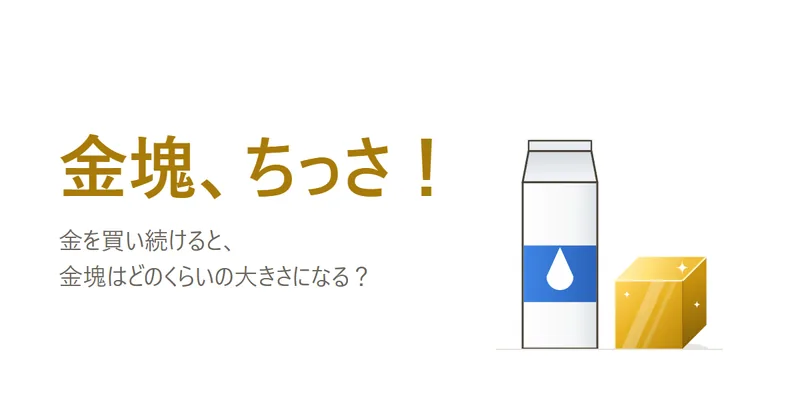
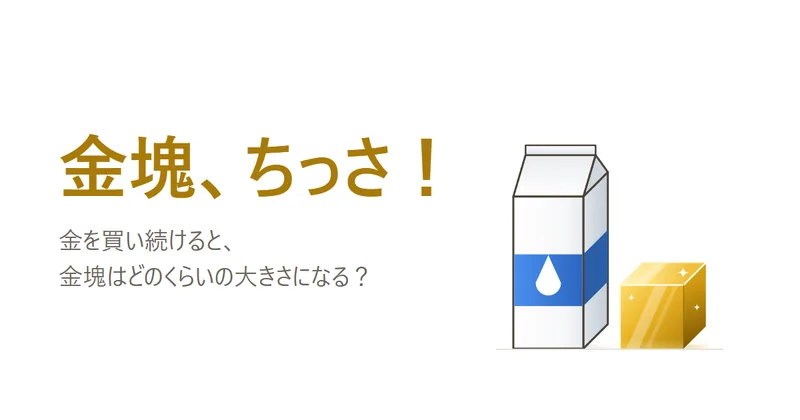
Use the new 金塊、ちっさ！ preview image (v1.6.1)

Changed region(s): [[0.625, 0.3095, 0.9062, 0.8357]]

diff --git a/docs/ロードマップ.md b/docs/ロードマップ.md
@@ -165,3 +165,4 @@
 | 2026-11-18 | ゲームを「お金のゲーム」（5つ）と「いろいろなゲーム」（3つ）の見出しに分けた（オーナー）。`site.json` に `money-game` を足し、`order` を分類ごとに振り直した。v1.4.0 |
 | 2026-11-20 | 新しいゲーム2つ（乗り換えたら負け・株価を決めるのは誰？）を、お金のゲームの準備中として追加（画像は OGP。株価を決めるのは誰？の一言は30字に収まるよう短くした）。v1.5.0 |
 | 2026-11-22 | 都道府県お絵かき採点を公開中に（URL、お知らせを追加）。v1.6.0 |
+| 2026-11-22 | 金塊、ちっさ！の画像を、アプリの新しい OGP 画像（立体の絵。アプリ v1.2.0）に差し替えた。v1.6.1 |
